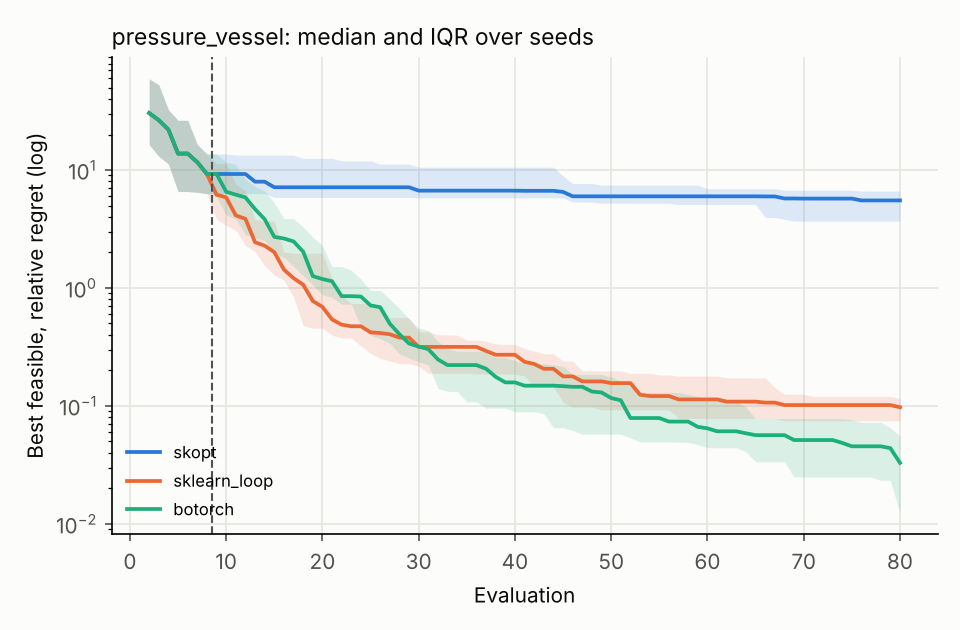
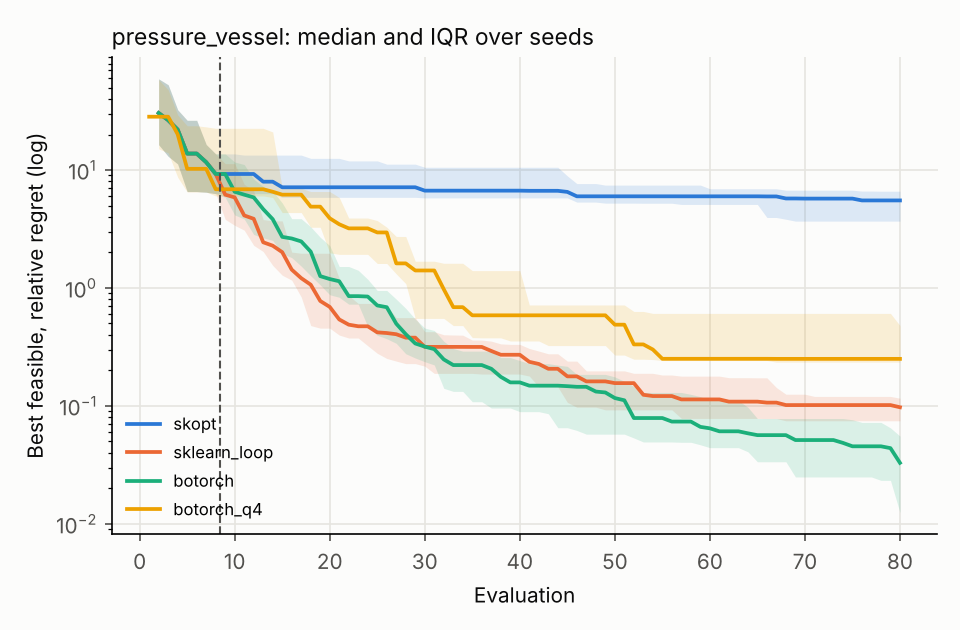
Add batch-of-4, MacBook and Apple GPU results to the BoTorch comparison
Regenerates the report with the finished batch-of-4 runs, adds findings.md
(including the M4 Max CPU and MPS timings) and notes that botorch_mps times
are GPU times.

Claude-Session: https://claude.ai/code/session_01Bc5R5Wzgad6Wrzedy2WC8Q

diff --git a/bo_bench/botorch_compare/report.py b/bo_bench/botorch_compare/report.py
@@ -91,7 +91,7 @@ def summarise(problem, runs, methods):
     lines = [f"### {problem.name} (d={problem.dim}, budget={problem.budget}, best known {problem.f_opt:g})", "",
              "Final best feasible objective, median [25th, 75th percentile] over seeds. "
              "`p vs skopt` is a two-sided Mann-Whitney U test on the final values. "
-             "Time is median wall-clock seconds per run on one CPU thread.", "",
+             "Time is median wall-clock seconds per run on one CPU thread (`botorch_mps`: on the GPU).", "",
              "| method | seeds | final | median relative/abs. regret | p vs skopt | feasible at end | time (s) |",
              "| :--- | ---: | :--- | ---: | ---: | ---: | ---: |"]
     finals = {m: np.array([best_so_far(f, feas)[-1] for _, f, feas, _, _ in runs[m]])

diff --git a/reports/botorch_compare/findings.md b/reports/botorch_compare/findings.md
@@ -1,0 +1,93 @@
+# skopt gp_minimize vs BoTorch: findings
+
+Run on 2026-11-07. Four problems from the initial-design study (Rastrigin 2D/4D,
+pressure vessel, welded beam), budget 20d evaluations, 20 seeds. Every method
+starts from the same Latin-hypercube design of 2d points, so only the model, the
+acquisition function and its optimiser differ. Full tables: [summary.md](summary.md).
+Setup: [README.md](README.md).
+
+## Final best feasible value (median over 20 seeds, relative regret to best known)
+
+| problem | skopt gp_minimize | in-house sklearn loop | BoTorch |
+| --- | --- | --- | --- |
+| Rastrigin 2D (opt 0) | 3.9 | 1.5 | 3.1 |
+| Rastrigin 4D (opt 0) | 23.0 | 15.1 | 19.8 |
+| Pressure vessel | 38,400 (+552 %) | 6,460 (+9.7 %) | **6,080 (+3.3 %)** |
+| Welded beam | 7.29 (+323 %), feasible in only 11/20 runs | **1.96 (+13.5 %)** | 2.24 (+30 %) |
+| Time per run (4D constrained) | ~16 s | ~5-9 s | ~150-230 s |
+
+Batch of 4 BoTorch (10 seeds): Rastrigin 2D 3.5, Rastrigin 4D 13.5, pressure vessel 7,360 (+25 %), welded beam 3.94 (+129 %, 9/10 feasible).
+
+## What it means
+
+1. **Unconstrained problems: no real difference between skopt and BoTorch.**
+   On Rastrigin the two are statistically indistinguishable (Mann-Whitney
+   p = 0.78 in 2D, 0.23 in 4D). Both are a Matern-5/2 GP with EI, so this is
+   expected. The in-house loop does somewhat better on Rastrigin 4D (p = 0.004),
+   most likely because its cruder acquisition optimiser explores more on this
+   very multimodal function.
+2. **Constrained engineering problems: the big gap is constraint handling, not
+   the library's GP.** gp_minimize has no constraint support, so the only option
+   is a penalty, and it fails: about 6.5x the optimum on the pressure vessel, and
+   no feasible design at all in 9 of 20 welded-beam runs. Both methods that model
+   each constraint with its own GP (EI x probability of feasibility) get within
+   3-30 % of the best known design in 80 evaluations. BoTorch does that in a few
+   lines with `LogConstrainedExpectedImprovement`.
+3. **BoTorch vs the hand-written loop is a split decision.** BoTorch wins on the
+   pressure vessel and the hand-written loop wins on the welded beam (6
+   constraints). Given 20 seeds and the tuning freedom in both, treat them as
+   comparable. The point is that BoTorch gives you this without writing and
+   maintaining your own loop.
+4. **BoTorch is 10-30x slower per run on CPU** (about 2-3 s per iteration with 7
+   GPs, mostly hyperparameter fitting). That is irrelevant when each evaluation
+   is a CFD run taking minutes to hours, but noticeable on cheap test functions.
+5. **Batch of 4 (`botorch_q4`, 10 seeds) trades sample efficiency for
+   wall-clock time.** It proposes 4 designs per GP fit, so 80 evaluations take
+   18 rounds instead of 72, which is about 4x less wall-clock time if you can run 4
+   CFD cases in parallel. On the same 80 evaluations it ends worse on the
+   constrained problems: pressure vessel +25 % (vs +3.3 % sequential), welded
+   beam +129 % with 1 of 10 runs never feasible (vs +30 %). It still beats skopt
+   on both. On Rastrigin 4D it did as well as or better than sequential
+   (13.5 vs 19.8) in the cloud run, but not in the MacBook run (16.8 vs 17.5),
+   so treat that as noise. If evaluations are hours long and you have the cores, q=4 is usually
+   the right call. If evaluations are the bottleneck and not wall-clock, stay
+   sequential.
+
+6. **The MacBook reproduces every conclusion.** Daniel's M4 Max re-ran the full
+   sweep (same seeds, 10 performance cores). Individual medians move a little
+   because of floating-point differences between the platforms (for example
+   skopt on Rastrigin 2D: 3.9 in the cloud vs 4.5 on the Mac), but the ranking
+   and the significance tests are the same: skopt ~ BoTorch without
+   constraints; skopt fails with constraints (pressure vessel +527 %, welded
+   beam feasible in only 12/20 runs); BoTorch +3.5 % / +27 %; batch-of-4
+   +18 % / +102 %.
+7. **The M4 Max CPU is about 2.5x faster per core than the cloud sandbox.**
+   BoTorch per run: 60 s vs 151 s (pressure vessel), 101 s vs 230 s (welded
+   beam). The whole sweep (320 runs) takes under 10 minutes on 10 cores.
+8. **The Apple GPU (MPS) is 3-10x slower than one CPU core here.** Median
+   seconds per BoTorch run, CPU vs GPU (5 GPU seeds): Rastrigin 2D 2.2 vs 20.1,
+   Rastrigin 4D 6.2 vs 53.6, pressure vessel 60 vs 176, welded beam 101 vs 294.
+   With at most 80 training points every GPU kernel launch costs more than the
+   arithmetic it saves, and MPS is limited to float32. The float32 runs also
+   ended somewhat worse (welded beam +56 % vs +27 %, from 5 seeds). GPUs start to pay
+   off with thousands of data points, many parallel models, or neural-network
+   surrogates. That's the regime of data-driven CFD surrogates, not a
+   100-evaluation GP loop.
+
+## Mac run (M4 Max, 10 workers): final medians
+
+| problem | skopt | sklearn loop | BoTorch | BoTorch q=4 | BoTorch MPS (5 seeds) |
+| --- | --- | --- | --- | --- | --- |
+| Rastrigin 2D | 4.53 | 1.45 | 4.58 | 4.76 | 7.82 |
+| Rastrigin 4D | 17.5 | 15.1 | 17.5 | 16.8 | 13.9 |
+| Pressure vessel | 36,900 (+527 %) | 6,460 (+9.7 %) | 6,090 (+3.5 %) | 6,930 (+18 %) | 6,330 (+7.6 %) |
+| Welded beam | 6.53 (+279 %), 12/20 feasible | 1.97 (+14 %) | 2.20 (+27 %) | 3.48 (+102 %) | 2.69 (+56 %) |
+
+The cloud tables and plots are in [summary.md](summary.md). The Mac's copy is in
+the repo folder on Daniel's MacBook, under reports/botorch_compare/.
+
+## Caveat
+
+The skopt penalty (worst-seen value + 10 x violation) is one reasonable choice
+among many. A better-tuned penalty would close some of the gap, but a penalty
+can never use the constraint information the way a constraint model does.

diff --git a/reports/botorch_compare/summary.md b/reports/botorch_compare/summary.md
@@ -2,49 +2,52 @@
 
 ### rastrigin2d (d=2, budget=40, best known 0)
 
-Final best feasible objective, median [25th, 75th percentile] over seeds. `p vs skopt` is a two-sided Mann-Whitney U test on the final values. Time is median wall-clock seconds per run on one CPU thread.
+Final best feasible objective, median [25th, 75th percentile] over seeds. `p vs skopt` is a two-sided Mann-Whitney U test on the final values. Time is median wall-clock seconds per run on one CPU thread (`botorch_mps`: on the GPU).
 
 | method | seeds | final | median relative/abs. regret | p vs skopt | feasible at end | time (s) |
 | :--- | ---: | :--- | ---: | ---: | ---: | ---: |
 | skopt | 20 | 3.9 [2.01, 5.46] | 3.9 |  | 20/20 | 2.6 |
 | sklearn_loop | 20 | 1.54 [1.05, 5.01] | 1.54 | 0.156 | 20/20 | 0.4 |
 | botorch | 20 | 3.1 [1.85, 5.53] | 3.1 | 0.776 | 20/20 | 8.2 |
+| botorch_q4 | 10 | 3.53 [3.01, 5.08] | 3.53 | 0.843 | 10/10 | 17.2 |
 
 ![rastrigin2d](rastrigin2d_convergence.png)
 
 ### rastrigin4d (d=4, budget=80, best known 0)
 
-Final best feasible objective, median [25th, 75th percentile] over seeds. `p vs skopt` is a two-sided Mann-Whitney U test on the final values. Time is median wall-clock seconds per run on one CPU thread.
+Final best feasible objective, median [25th, 75th percentile] over seeds. `p vs skopt` is a two-sided Mann-Whitney U test on the final values. Time is median wall-clock seconds per run on one CPU thread (`botorch_mps`: on the GPU).
 
 | method | seeds | final | median relative/abs. regret | p vs skopt | feasible at end | time (s) |
 | :--- | ---: | :--- | ---: | ---: | ---: | ---: |
 | skopt | 20 | 23 [15.6, 25.2] | 23 |  | 20/20 | 15.6 |
 | sklearn_loop | 20 | 15.1 [8.7, 18.6] | 15.1 | 0.004 | 20/20 | 1.8 |
 | botorch | 20 | 19.8 [12.3, 22.9] | 19.8 | 0.229 | 20/20 | 23.7 |
+| botorch_q4 | 10 | 13.5 [11.6, 18.1] | 13.5 | 0.050 | 10/10 | 57.5 |
 
 ![rastrigin4d](rastrigin4d_convergence.png)
 
 ### pressure_vessel (d=4, budget=80, best known 5885.33)
 
-Final best feasible objective, median [25th, 75th percentile] over seeds. `p vs skopt` is a two-sided Mann-Whitney U test on the final values. Time is median wall-clock seconds per run on one CPU thread.
+Final best feasible objective, median [25th, 75th percentile] over seeds. `p vs skopt` is a two-sided Mann-Whitney U test on the final values. Time is median wall-clock seconds per run on one CPU thread (`botorch_mps`: on the GPU).
 
 | method | seeds | final | median relative/abs. regret | p vs skopt | feasible at end | time (s) |
 | :--- | ---: | :--- | ---: | ---: | ---: | ---: |
 | skopt | 20 | 3.84e+04 [2.76e+04, 4.48e+04] | 5.52 |  | 20/20 | 15.5 |
 | sklearn_loop | 20 | 6.46e+03 [6.33e+03, 6.57e+03] | 0.0974 | 0.000 | 20/20 | 5.0 |
 | botorch | 20 | 6.08e+03 [5.96e+03, 6.21e+03] | 0.0329 | 0.000 | 20/20 | 151.3 |
+| botorch_q4 | 10 | 7.36e+03 [7.27e+03, 8.71e+03] | 0.251 | 0.000 | 10/10 | 286.4 |
 
 ![pressure_vessel](pressure_vessel_convergence.png)
 
 ### welded_beam (d=4, budget=80, best known 1.72485)
 
-Final best feasible objective, median [25th, 75th percentile] over seeds. `p vs skopt` is a two-sided Mann-Whitney U test on the final values. Time is median wall-clock seconds per run on one CPU thread.
+Final best feasible objective, median [25th, 75th percentile] over seeds. `p vs skopt` is a two-sided Mann-Whitney U test on the final values. Time is median wall-clock seconds per run on one CPU thread (`botorch_mps`: on the GPU).
 
 | method | seeds | final | median relative/abs. regret | p vs skopt | feasible at end | time (s) |
 | :--- | ---: | :--- | ---: | ---: | ---: | ---: |
 | skopt | 20 | 7.29 [3.57, ∞] | 3.23 |  | 11/20 | 16.9 |
 | sklearn_loop | 20 | 1.96 [1.89, 2] | 0.135 | 0.000 | 20/20 | 8.6 |
 | botorch | 20 | 2.24 [2.01, 2.86] | 0.297 | 0.000 | 20/20 | 229.5 |
-| botorch_q4 | 4 | 2.9 [2.58, 3.52] | 0.679 | 0.026 | 4/4 | 772.1 |
+| botorch_q4 | 10 | 3.94 [2.75, 6.23] | 1.29 | 0.066 | 9/10 | 990.2 |
 
 ![welded_beam](welded_beam_convergence.png)

diff --git a/reports/botorch_compare/README.md b/reports/botorch_compare/README.md
@@ -15,8 +15,9 @@ python -m bo_bench.botorch_compare.report                    # writes reports/bo
 
 `run` accepts `--problems`, `--methods`, `--seeds` and `--workers`, and resumes
 from `results/botorch_compare/raw/` if interrupted. The full sweep took about
-3.5 hours on 4 CPU cores (CPU-only PyTorch); almost all of it is the batch
-variant on the constrained problems.
+2 hours on a 4-core cloud sandbox and under 10 minutes on an M4 Max with 10
+workers. The optional GPU variant runs with
+`--methods botorch_mps --workers 1` on Apple silicon.
 
 ## Methods (`bo_bench/botorch_compare/methods.py`)
 
@@ -27,4 +28,4 @@ variant on the constrained problems.
 | `botorch` | `SingleTaskGP` (Matern-5/2 ARD with BoTorch's default priors), `LogExpectedImprovement`, or `LogConstrainedExpectedImprovement` with one GP per constraint; acquisition maximised by multi-start L-BFGS through autograd (`optimize_acqf`). |
 | `botorch_q4` | Same model, 4 points per iteration from `qLogExpectedImprovement` (Monte Carlo, constraints passed natively), i.e. 4 simulations in parallel. 10 seeds. |
 
-See `summary.md` for the tables and plots.
+See `findings.md` for the conclusions and `summary.md` for the tables and plots.
